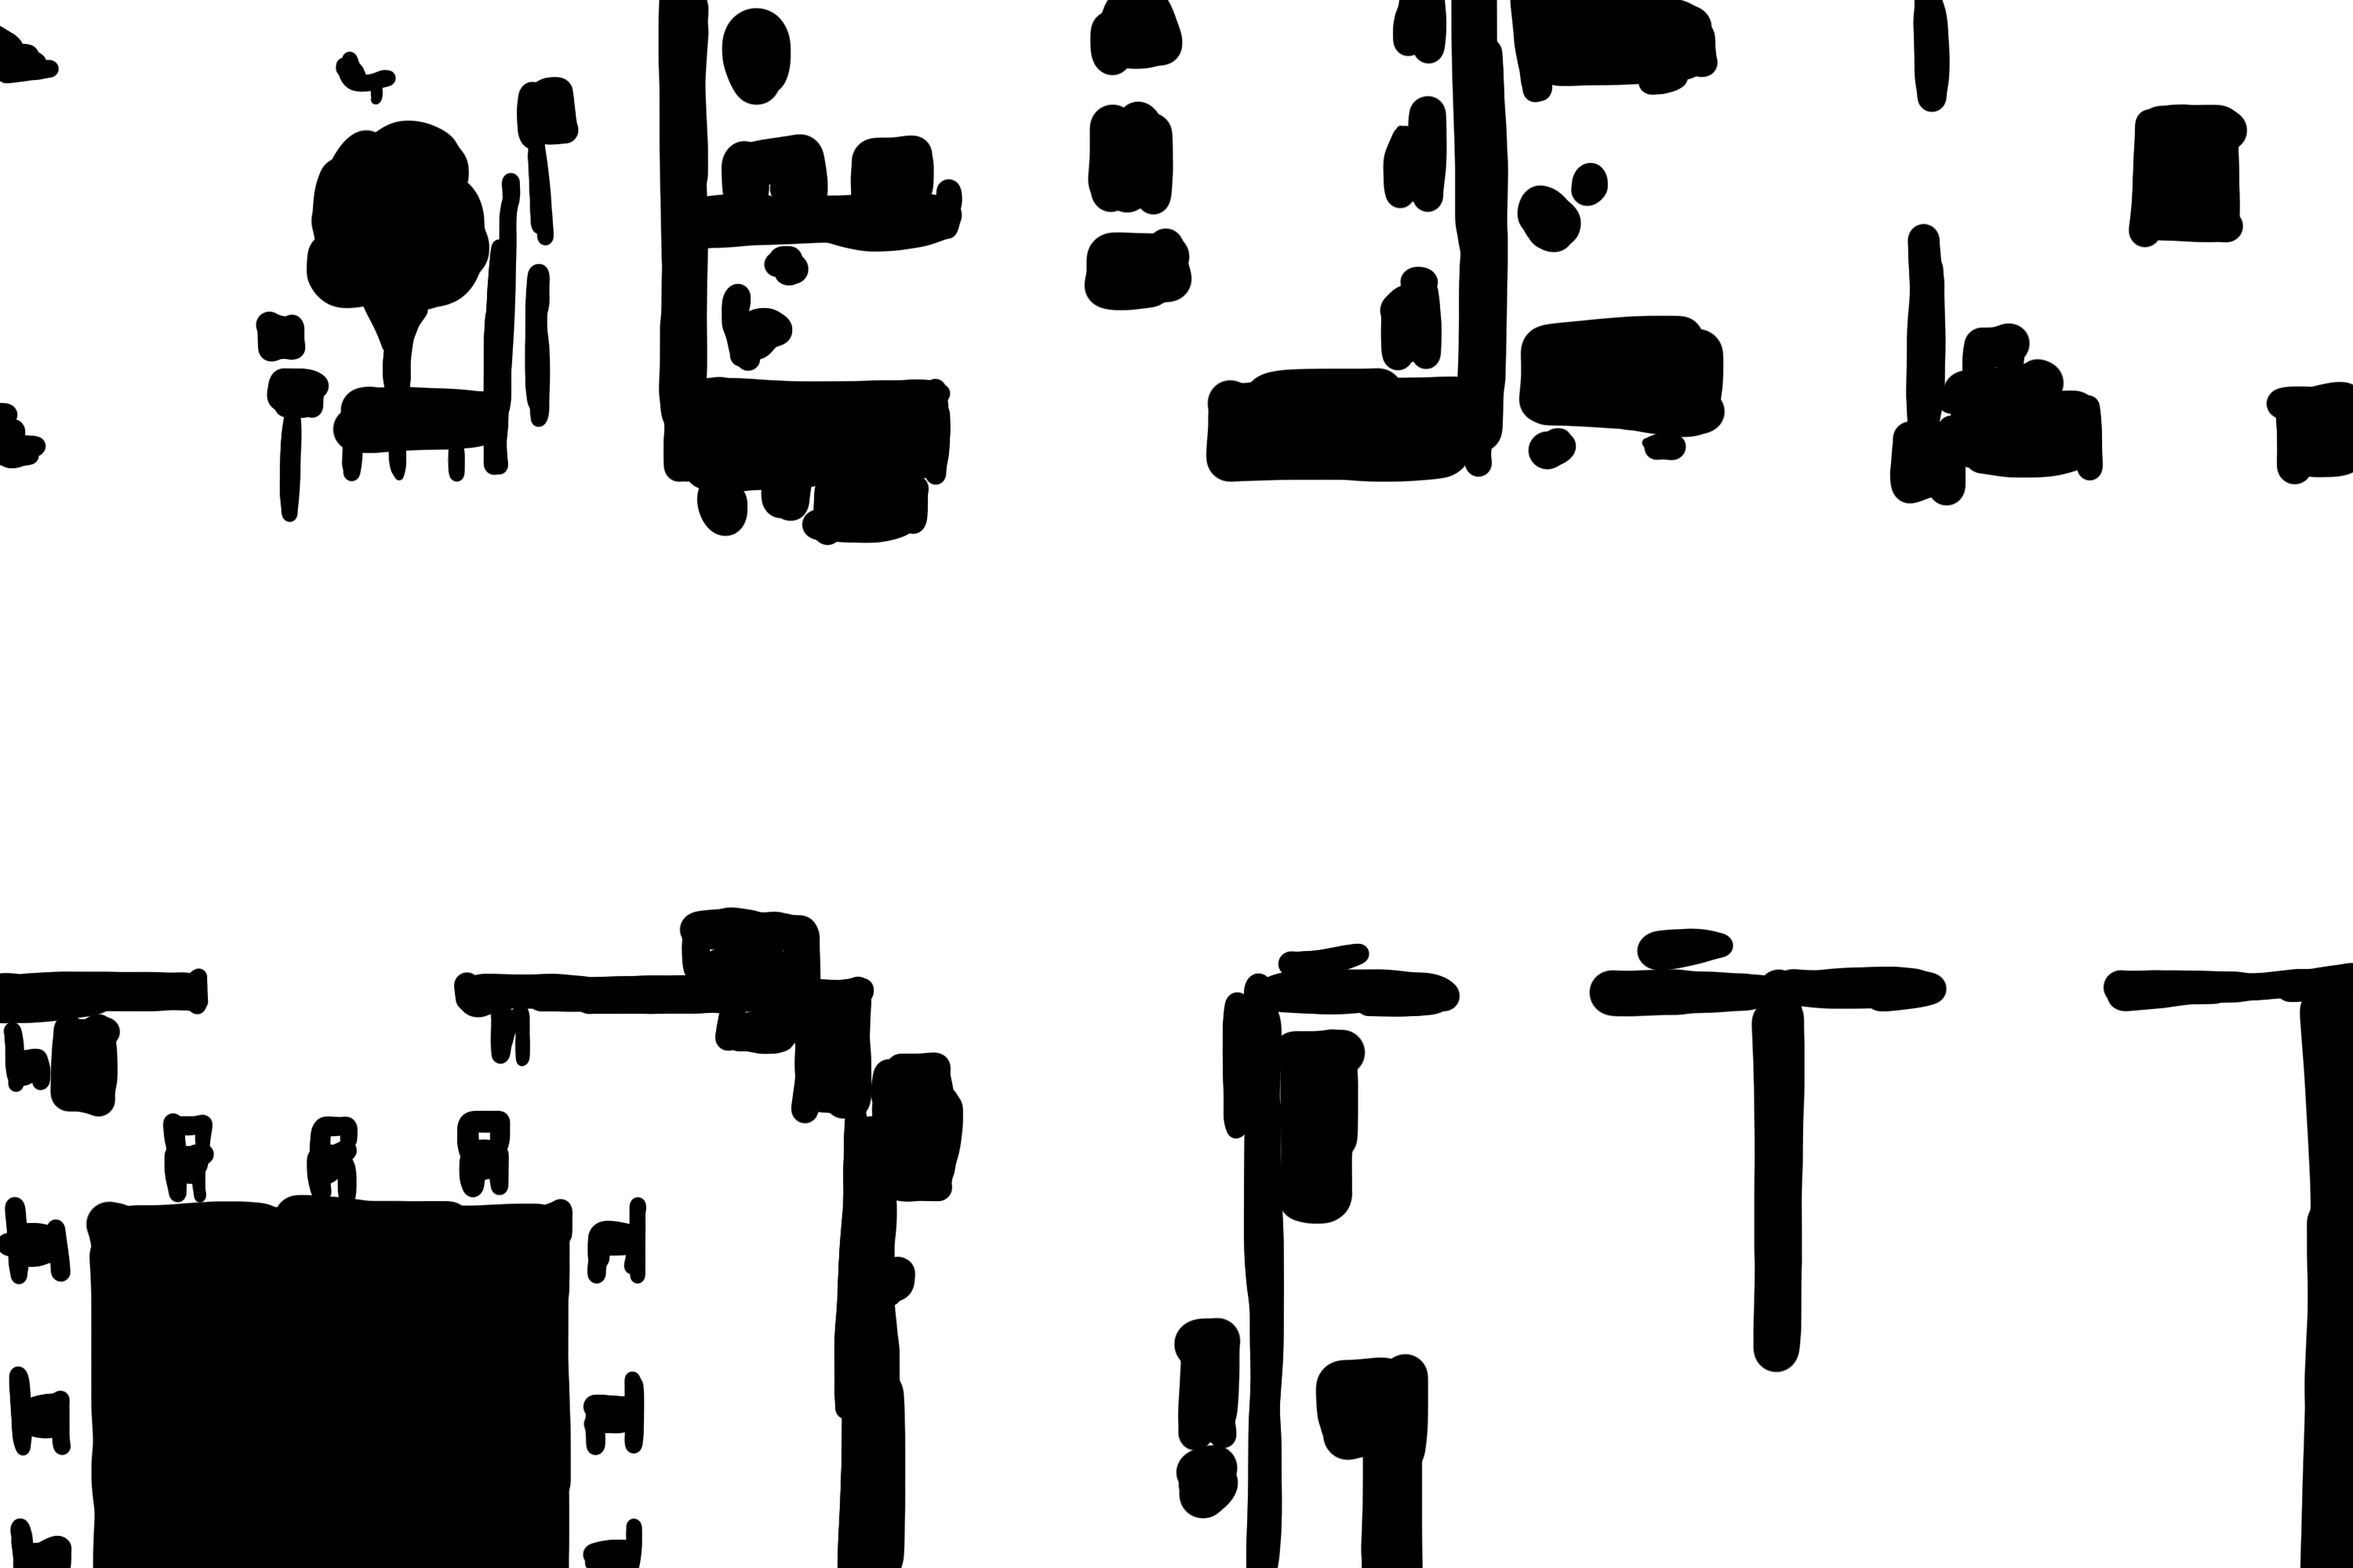
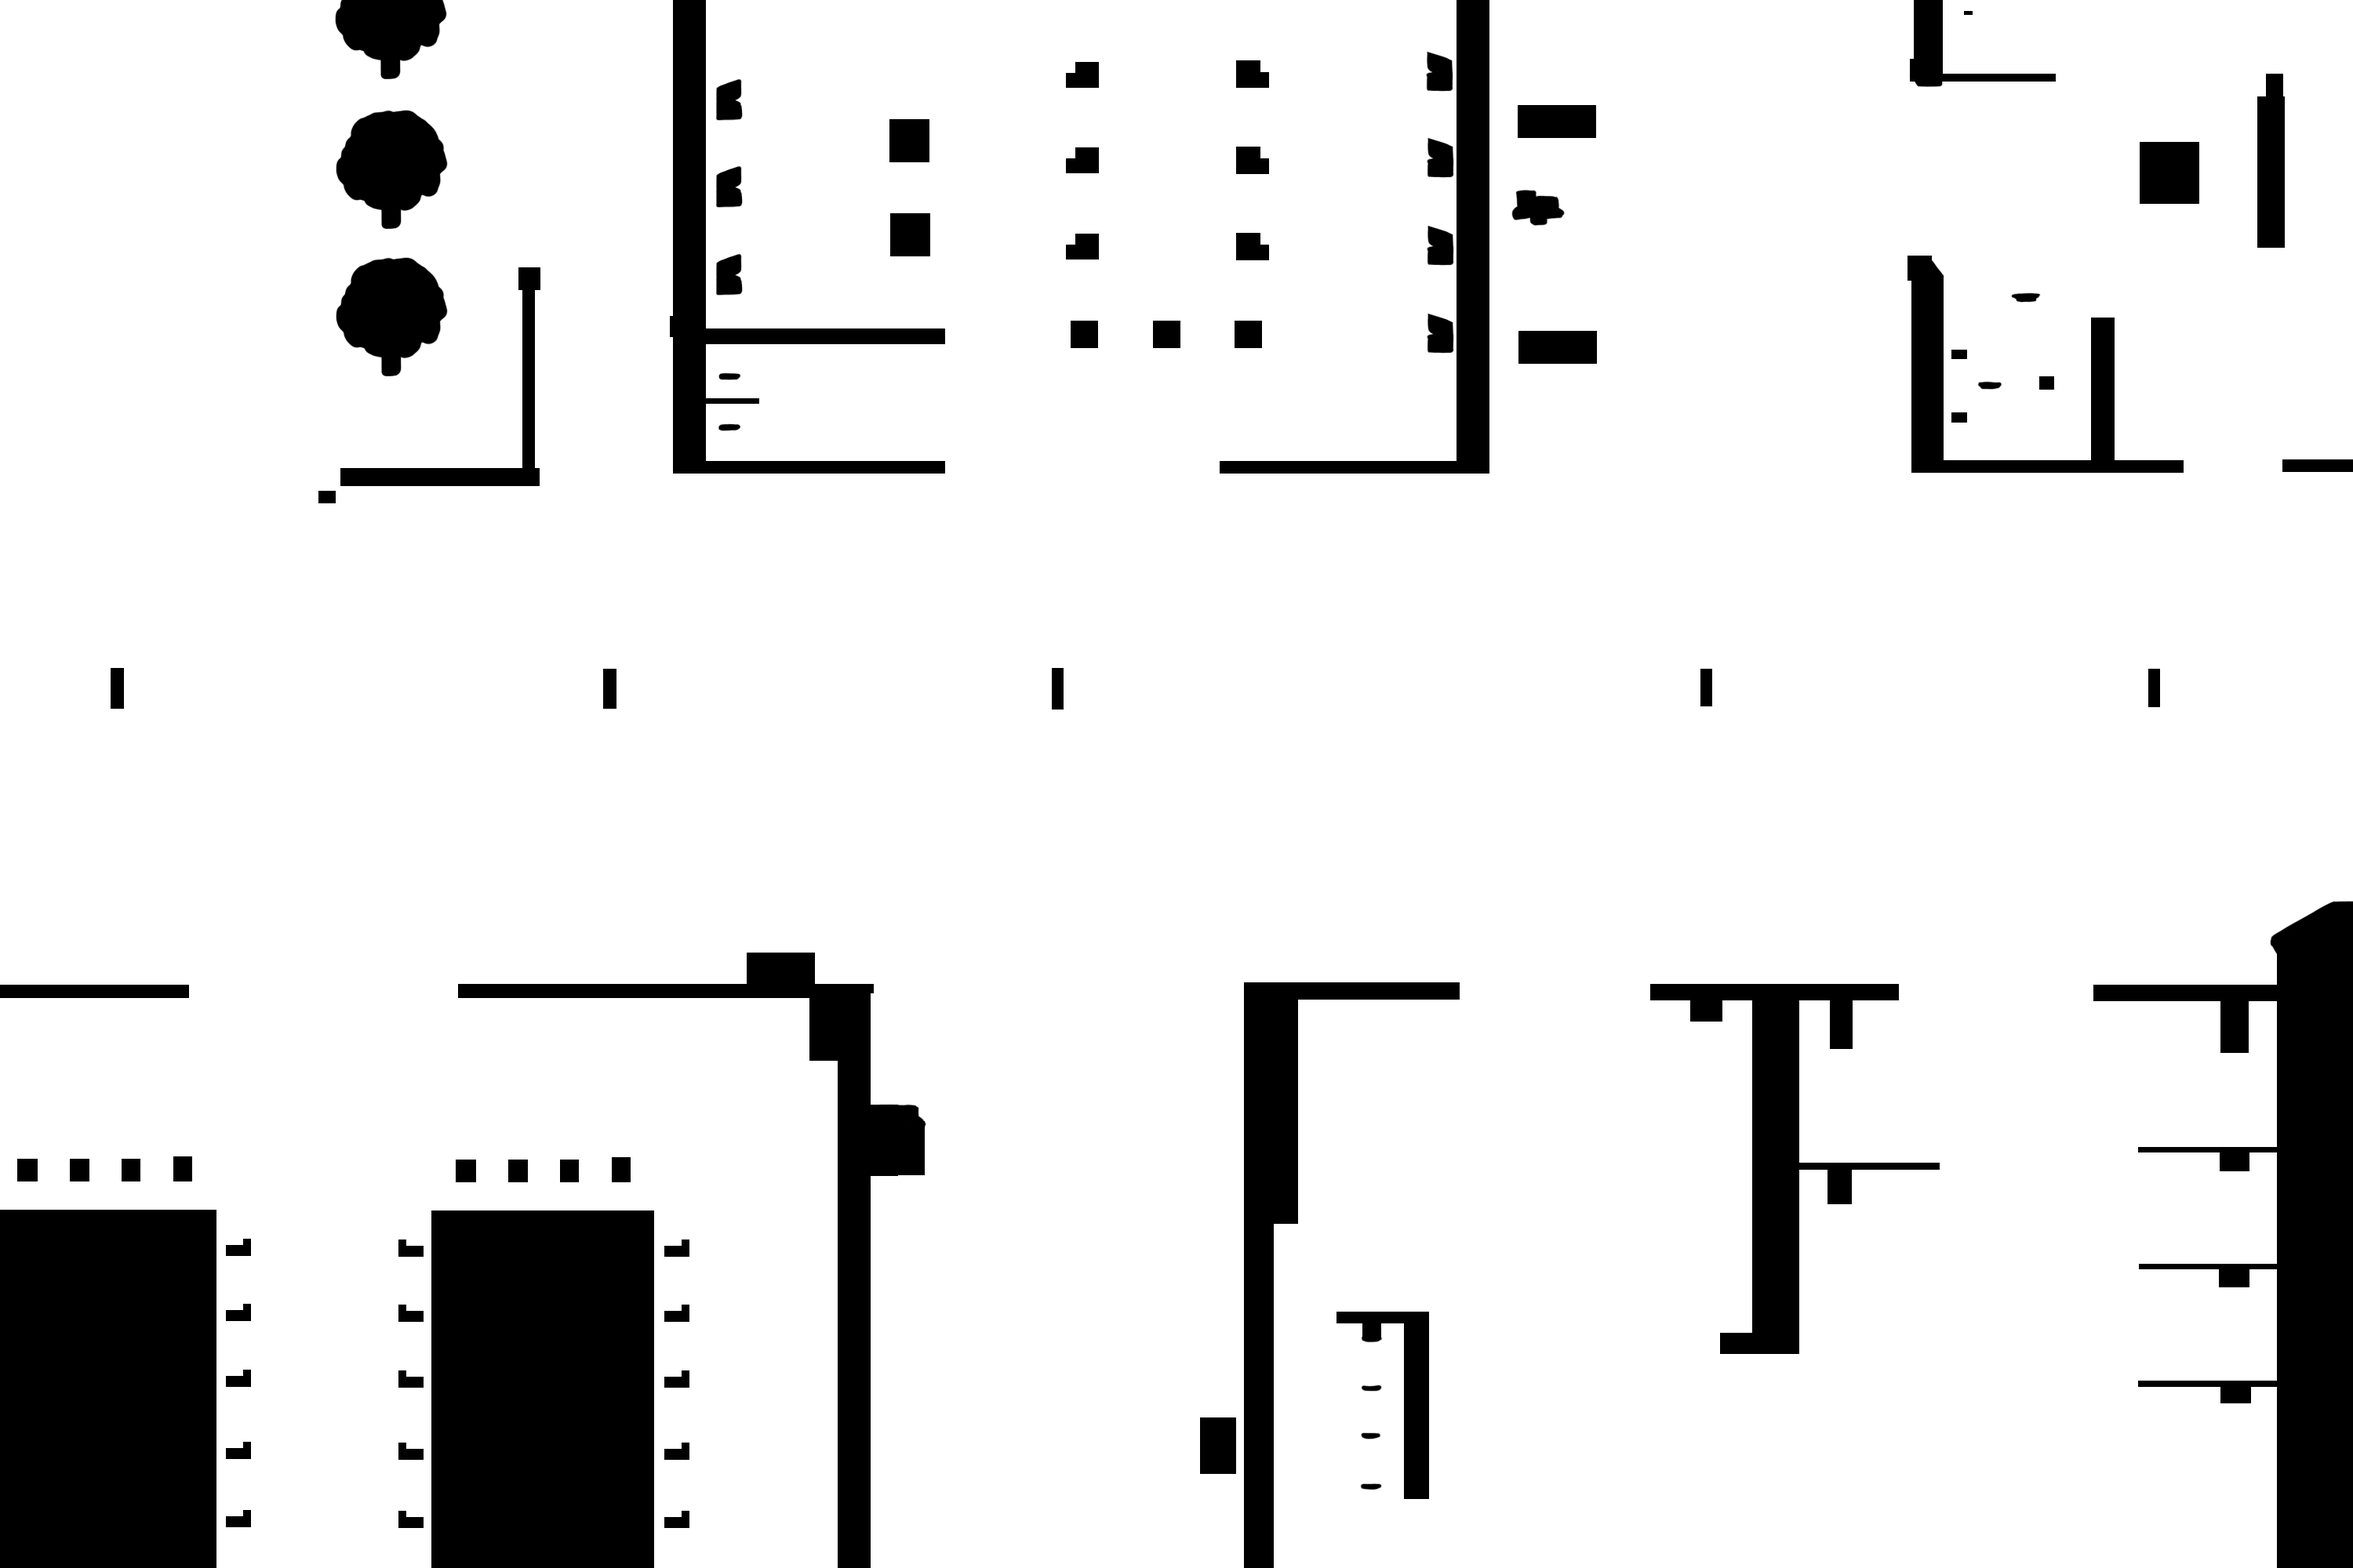
intégration de la Map 1 by Bribz

diff --git a/public/client.js b/public/client.js
@@ -10,7 +10,7 @@ const mainMenu = document.getElementById('mainMenu');
 const gameScreen = document.getElementById('gameScreen');
 const nicknameInput = document.getElementById('nicknameInput');
 
-const GAME_VERSION = "v0.5.1";  // À mettre à jour à chaque déploiement
+const GAME_VERSION = "v0.6.0";  // À mettre à jour à chaque déploiement
 
 // Menu des paramètres et ses éléments
 const settingsMenu = document.getElementById('settingsMenu');

diff --git a/public/CHANGELOG.md b/public/CHANGELOG.md
@@ -1,6 +1,10 @@
 # Changelog
 Tous les changements notables de ce projet seront documentés dans ce fichier.
 
+## [0.6.0] - 2024-11-18
+### Ajouts
+- Ajout de la première Map (by Bribz)
+
 ## [0.5.1] - 2024-11-17
 ### Ajouts
 - Ajout des onglets dans la salle d'attente pour les commandes et comment jouer
@@ -8,7 +12,7 @@ Tous les changements notables de ce projet seront documentés dans ce fichier.
 ## [0.5.0] - 2024-11-15
 ### Ajouts
 - Ajout des assets Ninja (by Bribz)
-- Ajout de la première Map (by Bribz)
+- Ajout de la première Map test (by Bribz)
 - Ajout d'un timer de 30 secondes à la fin de la partie
 - Ajout d'un timer de 5 secondes avant le début de la partie
 - Ajout des sprites bonus/malus
